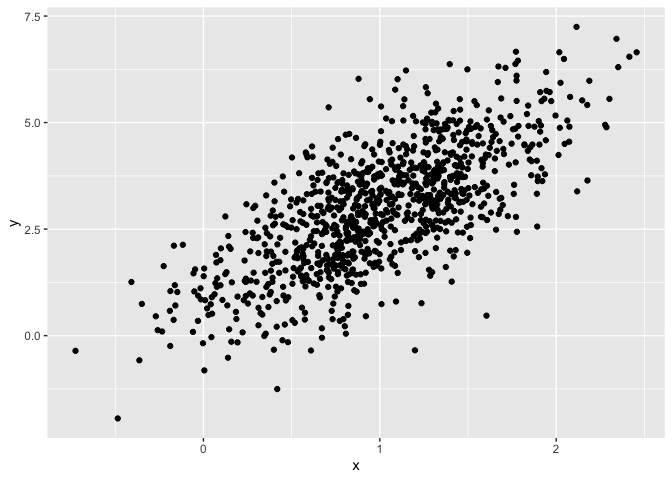
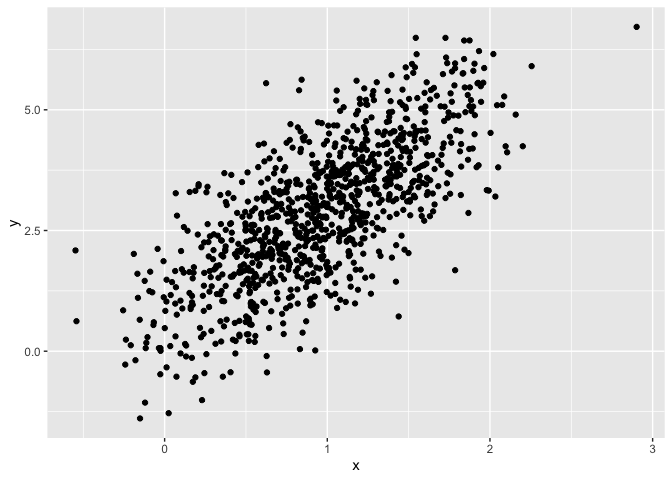
New random sample created and new results

diff --git a/20260915_first_markdown.md b/20260915_first_markdown.md
@@ -26,7 +26,7 @@ length(samp)
 
 # Section 2
 
-I can take the mean of the sample, too! The mean is 0.0993651.
+I can take the mean of the sample, too! The mean is 0.1118795.
 
 # Section 3
 
